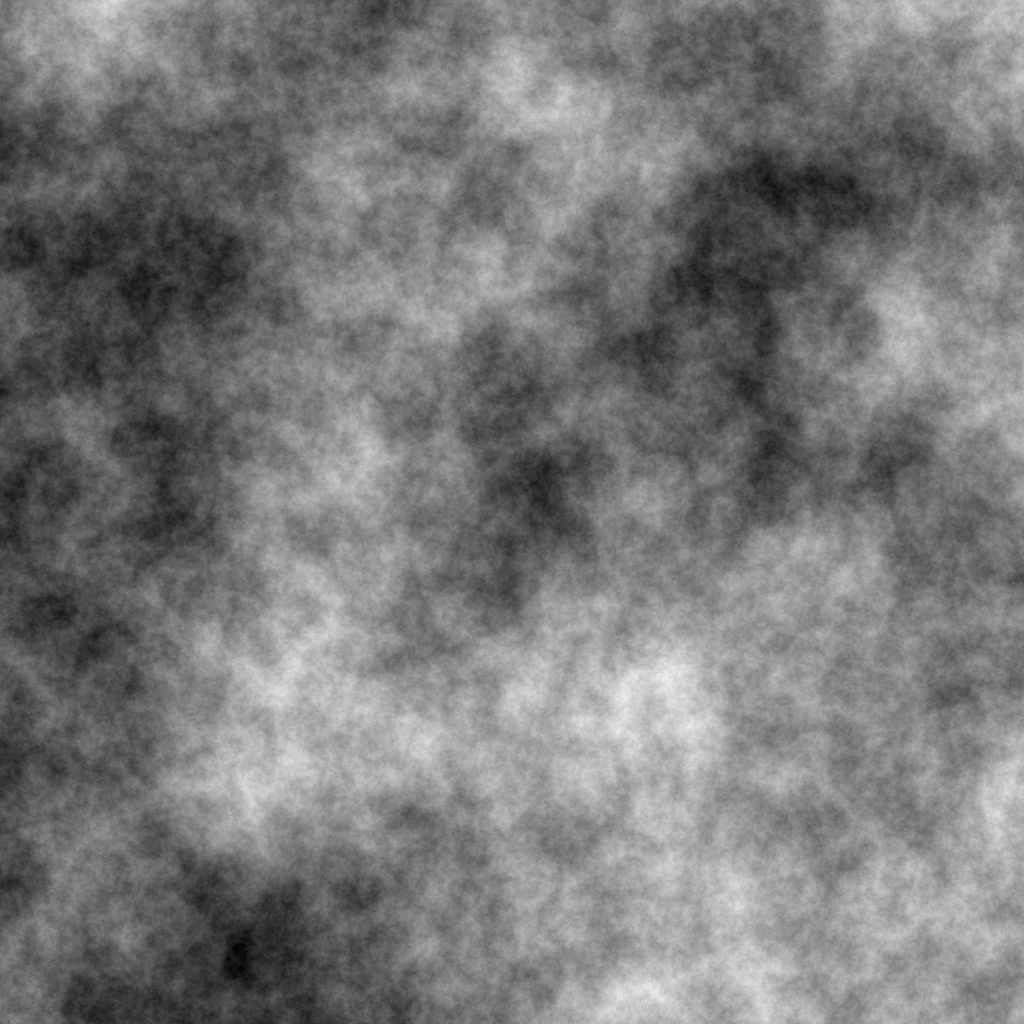
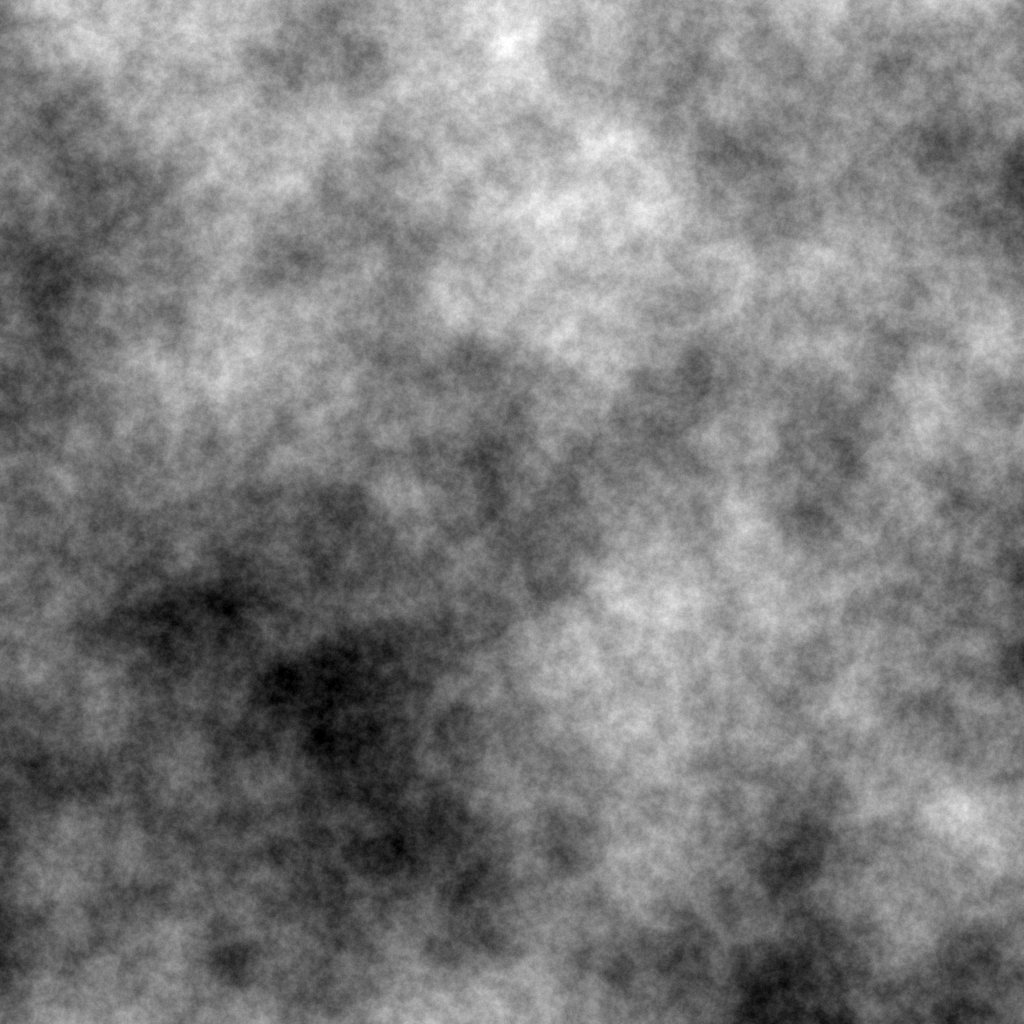
Permutation table struct

diff --git a/sources/noise/noise.swift b/sources/noise/noise.swift
@@ -52,24 +52,17 @@ extension Noise
     }
 }
 
-protocol HashedNoise:Noise
+struct PermutationTable
 {
-    var perm1024:[Int] { get }
-    var hashes:[Int] { get }
+    private
+    let permut:[UInt8], // keep these small to minimize cache misses
+        hashes:[UInt8]
 
-    static
-    var n_hashes:Int { get }
-}
-
-extension HashedNoise
-{
-    static
-    func table(seed:Int) -> ([Int], [Int])
+    init(range:Int, seed:Int)
     {
-        let range:Int = Self.n_hashes
-        var perm1024:[Int] = [Int](0 ..< 1024),
-            state128:(UInt32, UInt32, UInt32, UInt32) = (1, 0, 0, UInt32(extendingOrTruncating: seed))
-        for i in 0 ..< 1024 - 1
+        var permutations:[UInt8] = [UInt8](0 ... 255),
+            state128:(UInt32, UInt32, UInt32, UInt32) = (1, 0, UInt32(extendingOrTruncating: seed >> 32), UInt32(extendingOrTruncating: seed))
+        for i in 0 ..< 255 - 1
         {
             var t:UInt32 = state128.3
             t ^= t &<< 11
@@ -80,34 +73,40 @@ extension HashedNoise
             t ^= state128.0
             t ^= state128.0 &>> 19
             state128.0 = t
-            perm1024.swapAt(i, Int(t) & 1023)
+            permutations.swapAt(i, Int(t) & 255)
         }
 
-        return (perm1024, perm1024.map{ $0 % range })
+        self.permut = permutations
+        self.hashes = permutations.map{ $0 % UInt8(range) }
+    }
+
+    func hash(_ n1:Int, _ n2:Int) -> Int
+    {
+        return Int(self.hashes[Int(self.permut[n1 & 255]) ^ (n2 & 255)])
+    }
+
+    func hash(_ n1:Int, _ n2:Int, _ n3:Int) -> Int
+    {
+        return Int(self.hashes[Int(self.permut[Int(self.permut[n1 & 255]) ^ (n2 & 255)]) ^ (n3 & 255)])
     }
 }
 
-protocol Hashed2DGradientNoise:HashedNoise
+protocol GradientNoise2D:Noise
 {
+    var permutation_table:PermutationTable { get }
+
     static var gradient_table:[(Double, Double)] { get }
     static var radius:Double { get }
 }
 
-extension Hashed2DGradientNoise
+extension GradientNoise2D
 {
-    static
-    var n_hashes:Int
-    {
-        return Self.gradient_table.count
-    }
-
     func gradient(u:Int, v:Int, dx:Double, dy:Double) -> Double
     {
         let dr:Double = Self.radius - dx*dx - dy*dy
         if dr > 0
         {
-            let hash:Int = self.hashes[self.perm1024[u & 1023] ^ (v & 1023)],
-                gradient:(Double, Double) = Self.gradient_table[hash],
+            let gradient:(Double, Double) = Self.gradient_table[self.permutation_table.hash(u, v)],
                 drdr:Double = dr * dr
             return drdr * drdr * (gradient.0 * dx + gradient.1 * dy)
         }
@@ -118,26 +117,21 @@ extension Hashed2DGradientNoise
     }
 }
 
-protocol Hashed3DGradientNoise:HashedNoise
+protocol GradientNoise3D:Noise
 {
+    var permutation_table:PermutationTable { get }
+
     static var gradient_table:[(Double, Double, Double)] { get }
 }
 
-extension Hashed3DGradientNoise
+extension GradientNoise3D
 {
-    static
-    var n_hashes:Int
-    {
-        return Self.gradient_table.count
-    }
-
     func gradient(u:Int, v:Int, w:Int, dx:Double, dy:Double, dz:Double) -> Double
     {
         let dr:Double = 0.75 - dx*dx - dy*dy - dz*dz
         if dr > 0
         {
-            let hash:Int = self.hashes[self.perm1024[self.perm1024[u & 1023] ^ (v & 1023)] ^ (w & 1023)],
-                gradient:(Double, Double, Double) = Self.gradient_table[hash],
+            let gradient:(Double, Double, Double) = Self.gradient_table[self.permutation_table.hash(u, v, w)],
                 drdr:Double = dr * dr
             return drdr * drdr * (gradient.0 * dx + gradient.1 * dy + gradient.2 * dz)
         }

diff --git a/sources/noise/supersimplex.swift b/sources/noise/supersimplex.swift
@@ -2,7 +2,7 @@ import func Glibc.sin
 import func Glibc.cos
 
 public
-struct SuperSimplex2D:Hashed2DGradientNoise
+struct SuperSimplex2D:GradientNoise2D
 {
     private
     struct LatticePoint
@@ -102,8 +102,7 @@ struct SuperSimplex2D:Hashed2DGradientNoise
     static
     let radius:Double = 2/3
 
-    let perm1024:[Int],
-        hashes:[Int]
+    let permutation_table:PermutationTable
 
     private
     let amplitude:Double,
@@ -114,7 +113,7 @@ struct SuperSimplex2D:Hashed2DGradientNoise
     {
         self.amplitude = 18 * amplitude
         self.frequency = frequency
-        (self.perm1024, self.hashes) = SuperSimplex2D.table(seed: seed)
+        self.permutation_table = PermutationTable(range: SuperSimplex2D.gradient_table.count, seed: seed)
     }
 
     public
@@ -266,7 +265,7 @@ struct SuperSimplex2D:Hashed2DGradientNoise
 }
 
 public
-struct SuperSimplex3D:Hashed3DGradientNoise
+struct SuperSimplex3D:GradientNoise3D
 {
     private
     struct LatticePoint
@@ -356,8 +355,7 @@ struct SuperSimplex3D:Hashed3DGradientNoise
         (1, 1, 0), (-1, 1, 0), (0, -1, 1), (0, -1, -1)
     ]
 
-    let perm1024:[Int],
-        hashes:[Int]
+    let permutation_table:PermutationTable
 
     private
     let amplitude:Double,
@@ -368,7 +366,7 @@ struct SuperSimplex3D:Hashed3DGradientNoise
     {
         self.amplitude = 9 * amplitude
         self.frequency = frequency
-        (self.perm1024, self.hashes) = SuperSimplex3D.table(seed: seed)
+        self.permutation_table = PermutationTable(range: SuperSimplex3D.gradient_table.count, seed: seed)
     }
 
     public

diff --git a/sources/noise/opensimplex.swift b/sources/noise/opensimplex.swift
@@ -1,5 +1,5 @@
 public
-struct Simplex2D:Hashed2DGradientNoise
+struct Simplex2D:GradientNoise2D
 {
     static
     let gradient_table:[(Double, Double)] =
@@ -11,8 +11,7 @@ struct Simplex2D:Hashed2DGradientNoise
     static
     let radius:Double = 2
 
-    let perm1024:[Int],
-        hashes:[Int]
+    let permutation_table:PermutationTable
 
     private
     let amplitude:Double, // this is not necissaryly the same amplitude passed into the initializer
@@ -23,7 +22,7 @@ struct Simplex2D:Hashed2DGradientNoise
     {
         self.amplitude = 0.096 * amplitude
         self.frequency = frequency
-        (self.perm1024, self.hashes) = Simplex2D.table(seed: seed)
+        self.permutation_table = PermutationTable(range: Simplex2D.gradient_table.count, seed: seed)
     }
 
     public

diff --git a/sources/noise/cell.swift b/sources/noise/cell.swift
@@ -1,16 +1,10 @@
 public
-struct Cell2D:HashedNoise
+struct Cell2D
 {
-    let perm1024:[Int],
-        hashes:[Int]
-
-    static
-    var n_hashes:Int = 1024
 
     public
     init(amplitude:Double, frequency:Double, seed:Int = 0)
     {
-        (self.perm1024, self.hashes) = SuperSimplex2D.table(seed: seed)
     }
 
     public
